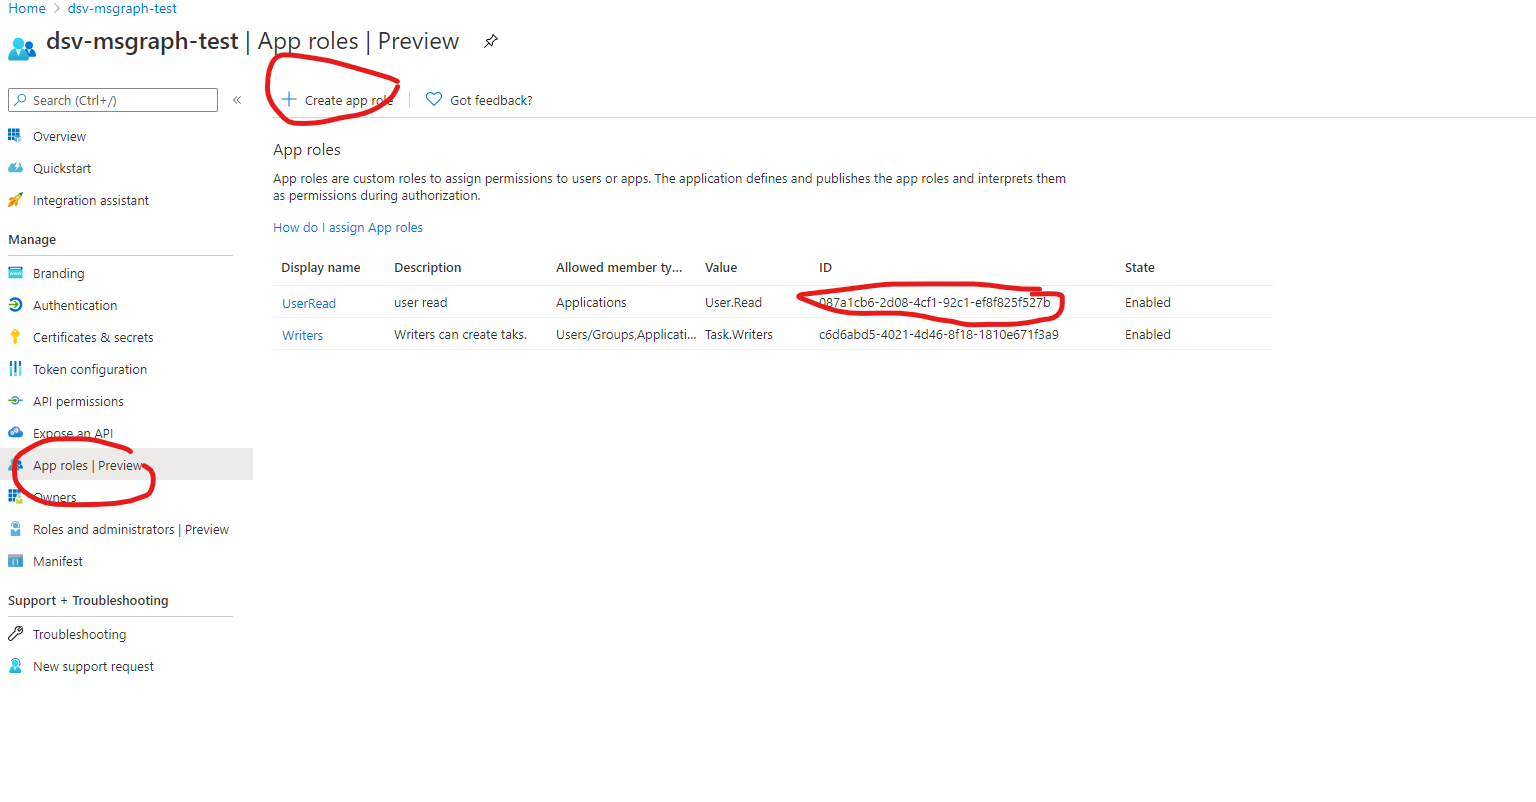
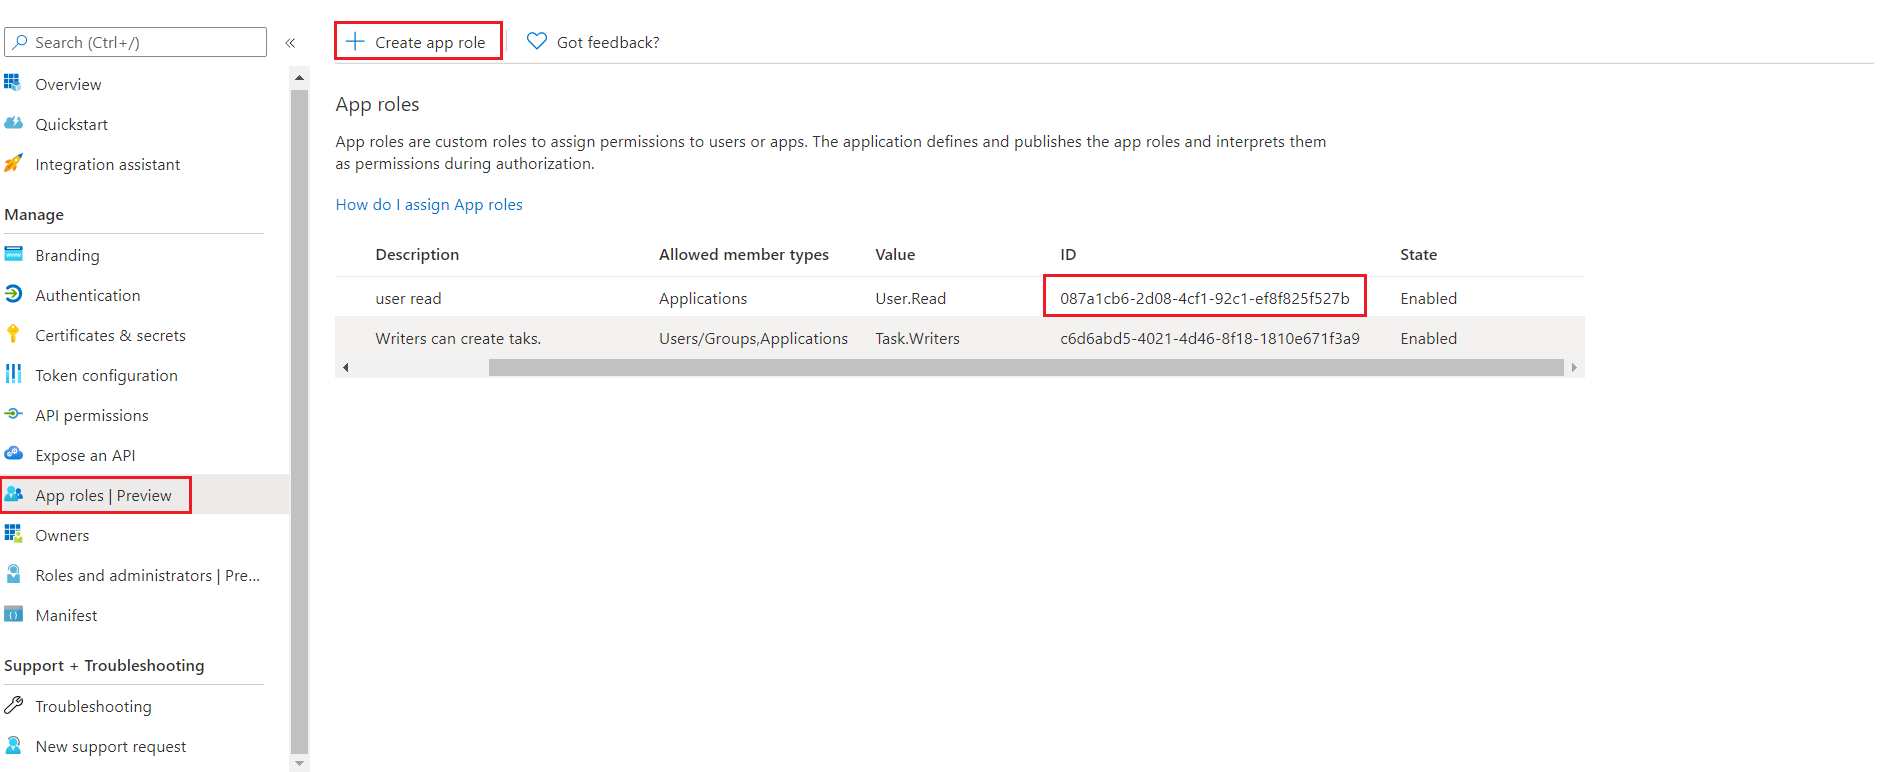
ms graph final edits

diff --git a/product/quickstart/obtaincli/index.md b/product/quickstart/obtaincli/index.md
@@ -8,11 +8,15 @@
 
 ### Windows Video Guide
 
-<iframe src="https://player.vimeo.com/video/490936839/" width="640" height="360" frameborder="0" title="{video_title}" webkitallowfullscreen mozallowfullscreen allowfullscreen></iframe>
+<div style="padding:56.25% 0 0 0;position:relative;">
+<iframe src="https://player.vimeo.com/video/490936839/" style="position:absolute;top:0;left:0;width:100%;height:100%;" frameborder="0" title="{video_title}" webkitallowfullscreen mozallowfullscreen allowfullscreen></iframe>
+</div><script src="https://player.vimeo.com/api/player.js"></script>
 
 ### Linux Video Guide
 
-<iframe src="https://player.vimeo.com/video/490936730" width="640" height="360" frameborder="0" title="{video_title}" webkitallowfullscreen mozallowfullscreen allowfullscreen></iframe>></iframe>
+<div style="padding:56.25% 0 0 0;position:relative;">
+<iframe src="https://player.vimeo.com/video/490936730" style="position:absolute;top:0;left:0;width:100%;height:100%;" frameborder="0" title="{video_title}" webkitallowfullscreen mozallowfullscreen allowfullscreen></iframe></iframe>
+</div><script src="https://player.vimeo.com/api/player.js"></script>
 
 ## CLI Configuration Guide
 
@@ -24,7 +28,7 @@
 1. The executable file name will reflect the OS and 32-bit or 64-bit architecture. **Rename the executable** to *dsv* or *dsv.exe* to simplify command entry.
 1. **Place the executable** in the file directory location of your choice and note the path.
 1. (Optional) **Add the Executable Path** to the PATH Environment Variable. Adding the location of the executable to your PATH environment variable enables you to invoke `dsv` without specifying its path or having to pre-pend `.\`
-    * For Windows, press the Windows key and type "edit environment variables". Select the offered item. In the Environment Variables dialog, under the System Variables section, select the Path and click edit. Add the path to the **dsv** executable (example: C:\Users\<name>\) and save.
+    * For Windows, press the Windows key and type "edit environment variables". Select the offered item. In the Environment Variables dialog, under the System Variables section (or under User Variables if you want make it available only in the context of that user), select the Path and click edit. Add the path to the **dsv** executable (example: `C:\Users\<name>\`) and save.
 
     * For Linux or macOS, use *export* to modify the shell profile file, *~.profile* or *~.bash_profile* typically, so that it adds dsv to the PATH on system startup:  *export PATH=~thycotic/cli:$PATH*
 1. **Enable Autocomplete.** Autocomplete is supported for bash, zsh, and fish shells only. To turn on autocomplete for the CLI, run `dsv -install` and restart your shell. Now when you type out the beginning of a command such as `dsv s` and hit tab it will fill out the full command to `dsv secret`

diff --git a/product/dynamic-secrets/iaas/azure/msgraph/azure-sp.md b/product/dynamic-secrets/iaas/azure/msgraph/azure-sp.md
@@ -13,7 +13,7 @@ An Azure **service principal** is an identity created for use with applications,
 1. Login to the [Microsoft Azure portal](https://portal.azure.com).
 1. Go to **Azure Active Directory**.
 1. Click **App registrations**, then **New registration**.  Enter an application name and then click **Register**.
-1. Take note of the **Application (client) ID** and **Directory (tenant) ID**.  They are the DSV Base secret `clientId` and `tenantId` parameters respectively.
+1. Take note of the **Application (client) ID** and **Directory (tenant) ID**.  They are the DSV Base secret `clientId` and `tenantId` parameters, respectively.
 
     ![](../../../images/applicationIDs.png "applications")
 
@@ -53,7 +53,7 @@ In the [Azure Dynamic Secrets](azure.md) section, we discuss DSV using an "exist
 3. Click **App registrations** and select application to add a new appRole or to pick an existing appRole. 
 6. Take note of the **ID**. That is the DSV Dynamic Secret `appRoleId` parameter.
 
-    ![](../../../images/msgraphAppRole.png "graph app role")
+    ![](../../../images/msgraphapprole.png "graph app role")
 
 4. Navigate to **Active Directory  > Enterprise applications**.
 5. Select the **application name** that you configured in the above steps. 

diff --git a/product/quickstart/init/index.md b/product/quickstart/init/index.md
@@ -15,7 +15,9 @@ DSV CLI initialization presents you with a series of prompts and options. If you
 
 ## Video Guide
 
-<iframe src="https://player.vimeo.com/video/490936892/" width="640" height="360" frameborder="0" title="Initialize the CLI" webkitallowfullscreen mozallowfullscreen allowfullscreen></iframe>
+<div style="padding:56.25% 0 0 0;position:relative;">
+<iframe src="https://player.vimeo.com/video/490936892/" style="position:absolute;top:0;left:0;width:100%;height:100%;" frameborder="0" title="Initialize the CLI" webkitallowfullscreen mozallowfullscreen allowfullscreen></iframe>
+</div><script src="https://player.vimeo.com/api/player.js"></script>
 
 ## CLI Setup Guide
 

diff --git a/product/dynamic-secrets/iaas/azure/index.md b/product/dynamic-secrets/iaas/azure/index.md
@@ -14,7 +14,7 @@ In order for DSV to generate dynamic Secrets, a base secret must first be create
 
 These permissions can be configured through the Azure Portal, CLI tool, or PowerShell. A guide to setting up the Azure service principals in the Azure portal is provided in the [Azure Service Principal](azure-sp.md) section.
 
-DSV also supports the use of [Azure Microsoft Graph](msgraph/index.md).
+>**NOTE**: As of June 30th, 2020, Microsoft stopped updating Azure Active Directory in favor of Azure Microsoft Graph. See [Azure Microsoft Graph](msgraph/index.md) to get started using DSV with MS Graph.
 
 
 ## Create the Base Secret

diff --git a/product/dynamic-secrets/iaas/index.md b/product/dynamic-secrets/iaas/index.md
@@ -5,6 +5,6 @@
 # IaaS Dynamic Secrets
 
 DSV currently supports dynamic secrets for:
-1. [Azure](azure/index.md) and [Azure Microsoft Graph](azure/msgraph/index.md)
+1. [Azure AD](azure/index.md) and [Azure AD Microsoft Graph](azure/msgraph/index.md)
 1. [AWS](aws.md)
 1. [GCP](gcp.md)
